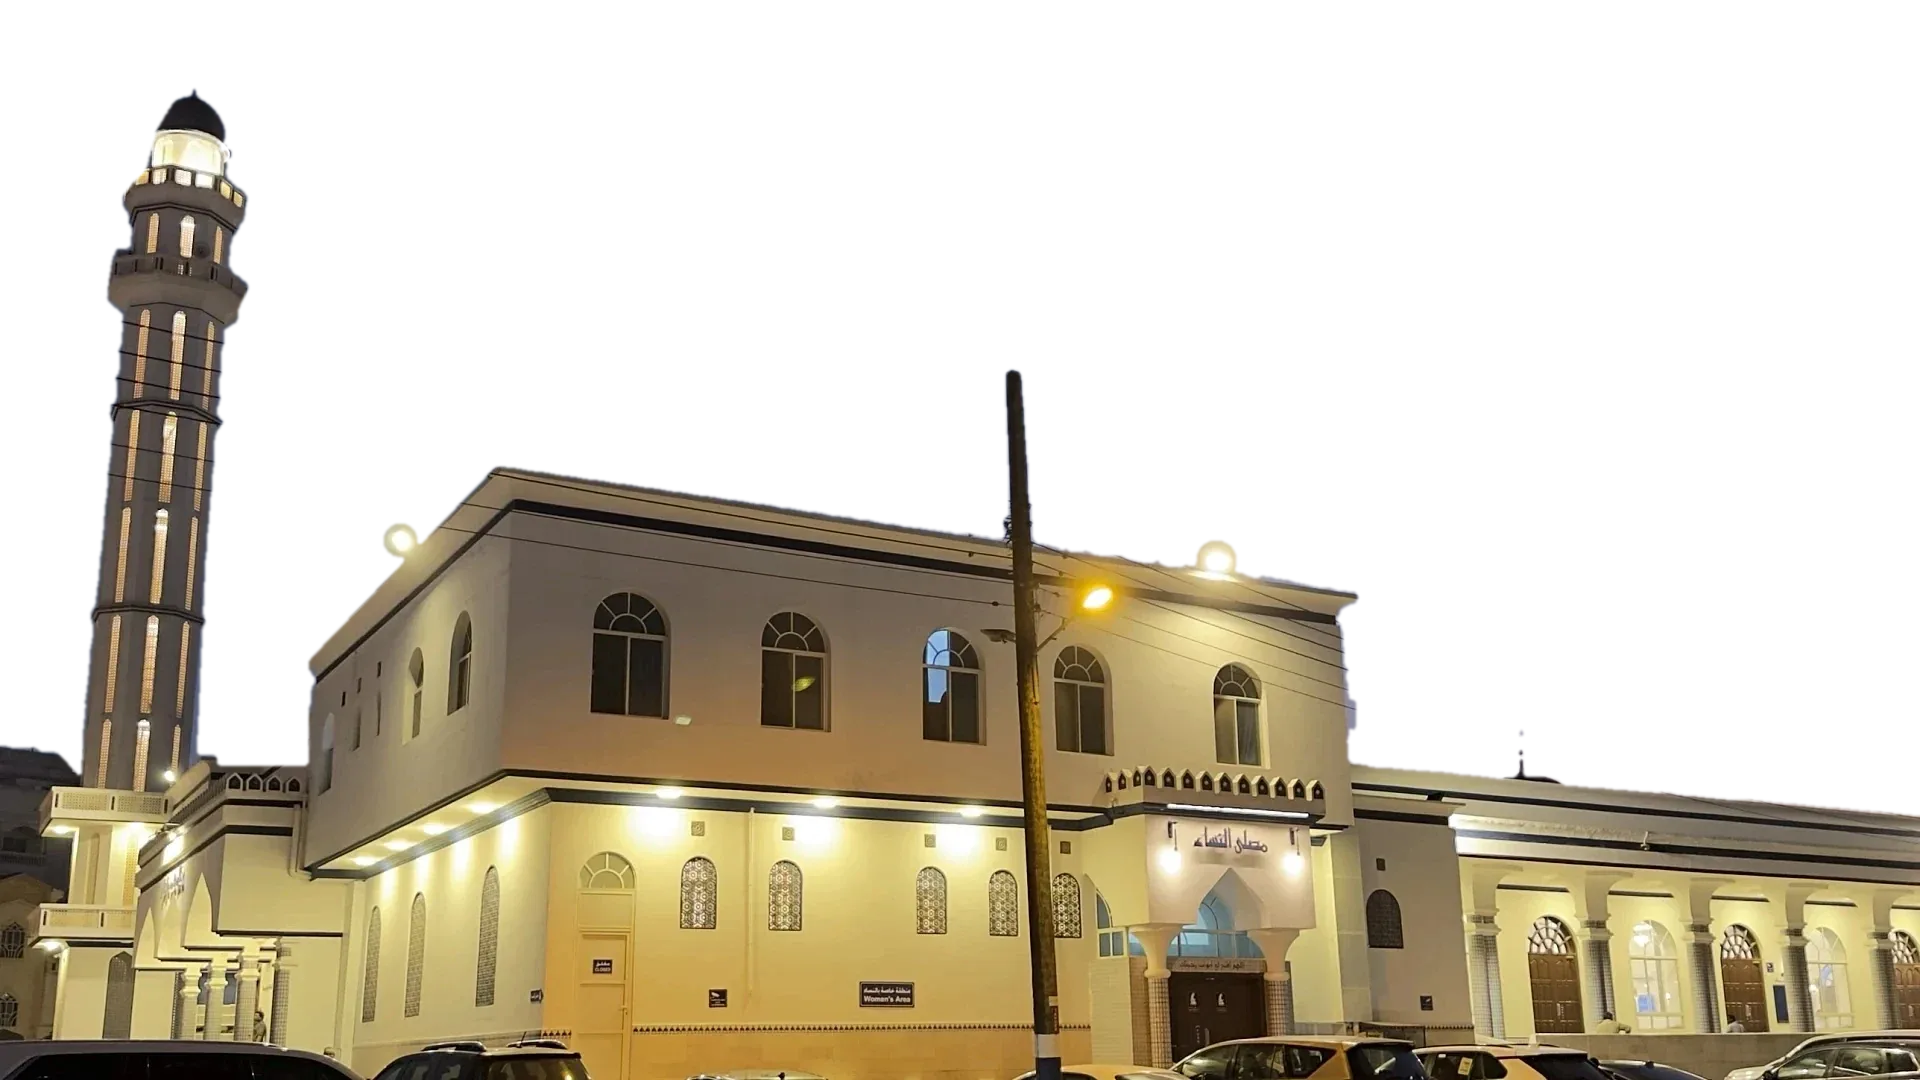
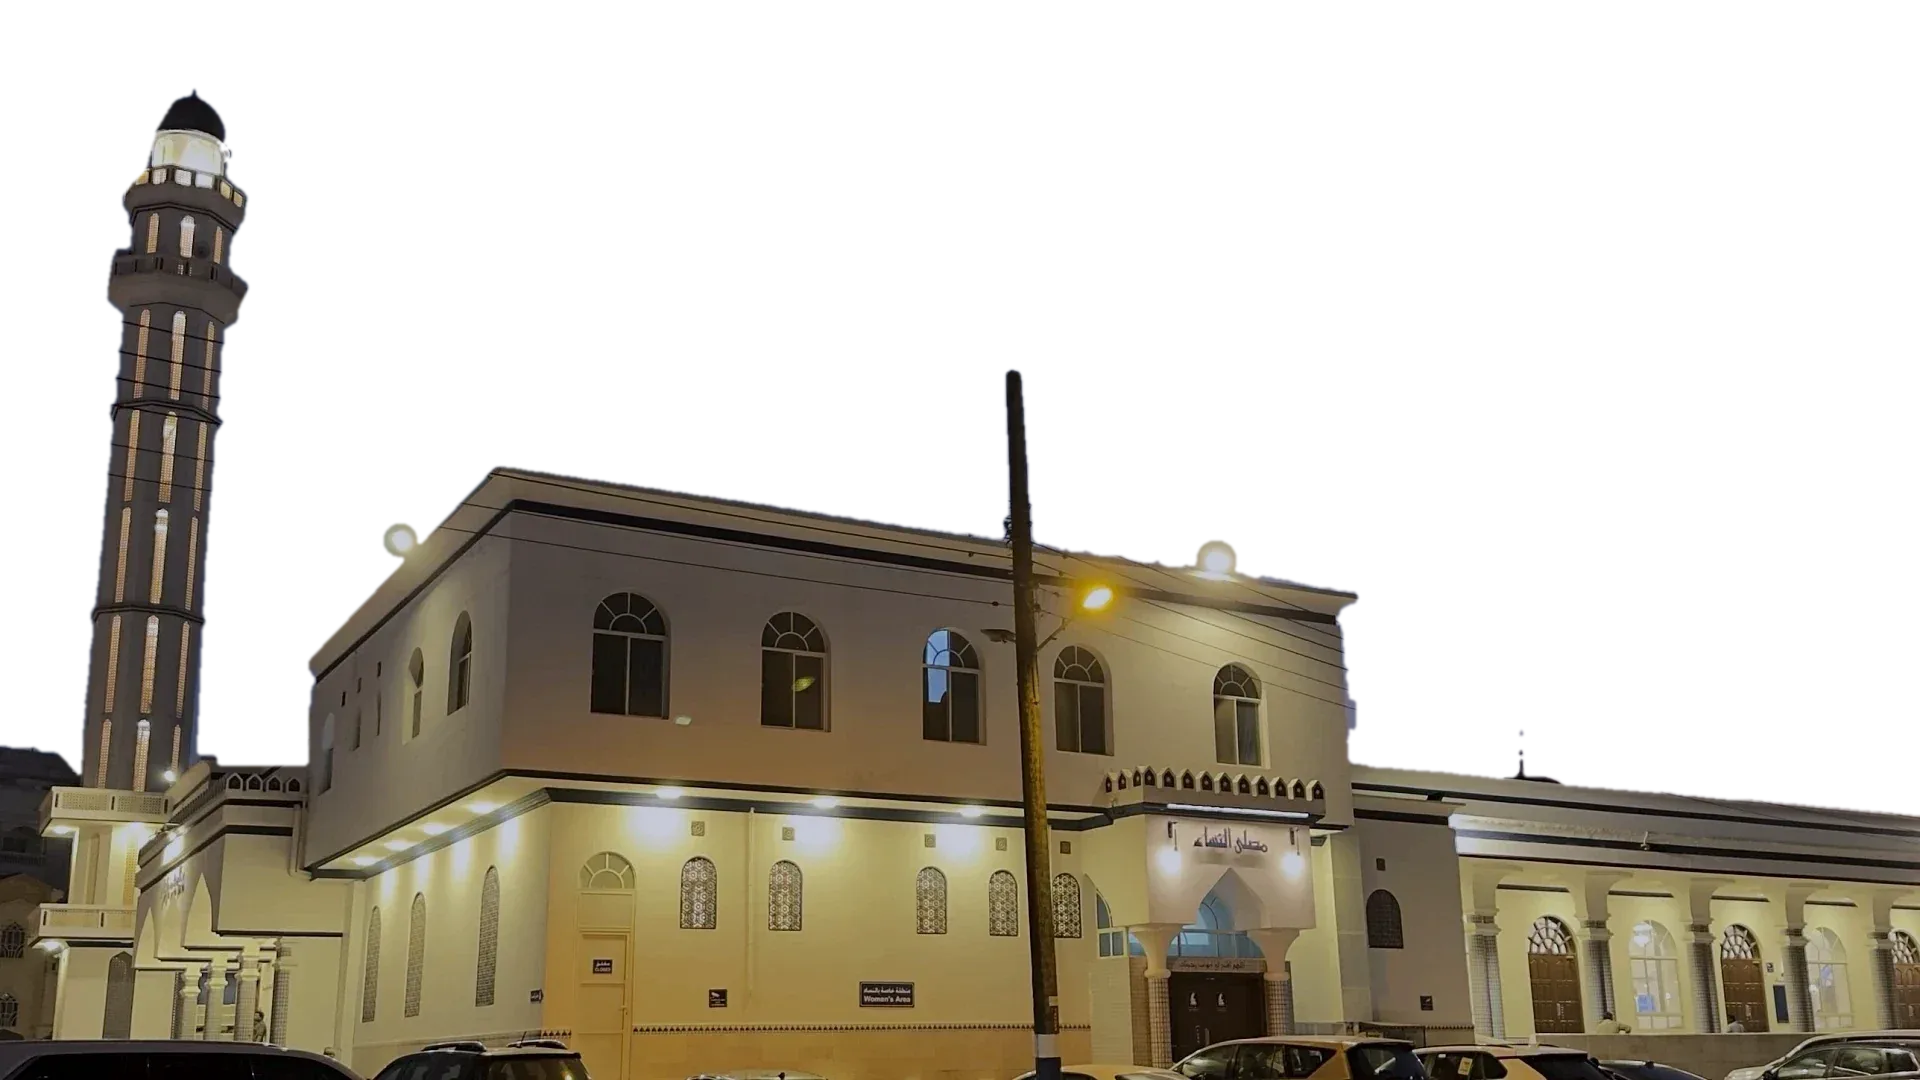
🏟 the couch-tv dusk exactly: a calm slate-blue → mauve → soft-pink sky (no bright side) behind the mosque, the mosque a touch darker to sit in it; the glass clock as couch-tv draws it — a thin white edge and a faint frosted fill, no heavy white
Claude-Session: https://claude.ai/code/session_01ARi9ftabyekJLjbacbC3ya

diff --git a/app/src/main/assets/home/index.html b/app/src/main/assets/home/index.html
@@ -574,17 +574,17 @@ html.fxlite #fring{box-shadow:none;transition-duration:.07s}
 body.couch.chome .cScene{display:block;position:fixed;inset:0;z-index:0;pointer-events:none}
 body.couch.chome #wall,body.couch.chome #wallBack,body.couch.chome .boardBg{display:none!important}
 body.couch.chome #time,body.couch.chome #date{visibility:hidden}
-.cScene .cBg,.cScene .cFg{position:absolute;inset:0;background:url(wall/rk-blue.webp) center/cover no-repeat}
+.cScene .cBg,.cScene .cFg{position:absolute;inset:0;background:url(wall/couch-bg.webp) center/cover no-repeat}
 .cScene .cFg{background-image:url(wall/couch-fg.webp)}
 .cScene .cScrim{position:absolute;inset:0;background:linear-gradient(180deg,rgba(0,0,0,0) 52%,rgba(8,10,24,.55) 78%,rgba(8,10,24,.78) 100%);transition:background .6s}
 body.couch.cdeep .cScene .cScrim{background:rgba(8,10,24,.62)}
 .gclock{position:absolute;top:var(--ct,13vh);left:0;right:0;text-align:var(--cx,center);padding:0 6vw;white-space:nowrap;direction:ltr;
-  font-family:"Antonio","Arial Narrow",sans-serif;font-weight:300;font-size:var(--cs,34vh);line-height:.82;letter-spacing:-.02em;filter:drop-shadow(0 .4rem 1.8rem rgba(0,0,0,.16))}
+  font-family:"Antonio","Arial Narrow",sans-serif;font-weight:300;font-size:var(--cs,34vh);line-height:.82;letter-spacing:-.02em}
 .gclock .fill{display:block;padding:.2em 0;margin:-.2em 0;color:transparent;background:url(wall/couch-glass.webp) 0 0/100vw 100vh no-repeat fixed;
-  -webkit-background-clip:text;background-clip:text;filter:brightness(1.55) saturate(1.1);opacity:.96}
+  -webkit-background-clip:text;background-clip:text;filter:brightness(1.16) saturate(1.05);opacity:.62}
 .gclock .rim,.gclock .sheen{position:absolute;inset:0;padding:0 6vw}
-.gclock .rim{color:rgba(220,230,255,.10);-webkit-text-stroke:.12rem rgba(235,242,255,.78)}
-.gclock .sheen{color:transparent;-webkit-background-clip:text;background-clip:text;background-image:linear-gradient(160deg,rgba(255,255,255,.55) 0%,rgba(255,255,255,0) 38%,rgba(255,255,255,0) 70%,rgba(255,255,255,.22) 100%)}
+.gclock .rim{color:transparent;-webkit-text-stroke:2px rgba(255,255,255,.88)}
+.gclock .sheen{color:transparent;-webkit-background-clip:text;background-clip:text;background-image:linear-gradient(165deg,rgba(255,255,255,.22) 0%,rgba(255,255,255,0) 30%,rgba(255,255,255,0) 75%,rgba(255,255,255,.10) 100%)}
 .cDate{position:absolute;top:calc(var(--ct,13vh) - 7.5vh);left:0;right:0;text-align:center;font-size:30px;font-weight:600;color:#fff;text-shadow:0 2px 18px rgba(0,0,0,.3)}
 .cDate span{display:inline-block;padding:6px 24px;border-radius:28px;background:rgba(30,20,28,.28);-webkit-backdrop-filter:blur(24px) saturate(170%);backdrop-filter:blur(24px) saturate(170%);box-shadow:inset 0 0 0 1px rgba(255,220,230,.18)}
 body.couch #homeScroll{padding-top:var(--cpad,60vh)!important}
